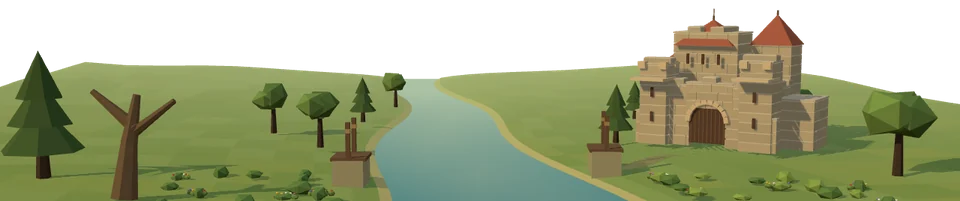
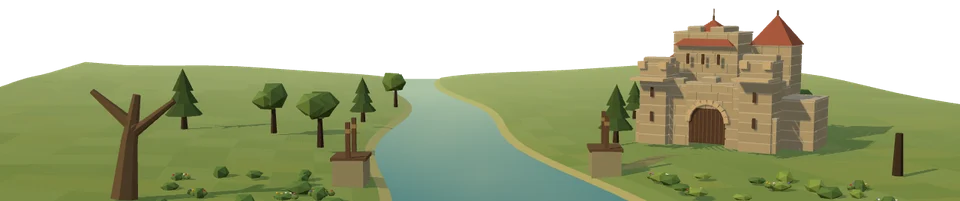
Bring a natural breeze to Modes of Mettle

diff --git a/client/menu-commands.css b/client/menu-commands.css
@@ -108,6 +108,7 @@
   box-shadow: inset 0 1px #fcdfa699, inset 0 -2px #273a2c80;
 }
 .mettle-view {
+  --gust: 28s -3s linear infinite;
   background: radial-gradient(ellipse at 26% 18%, #fff1c6b0 0, transparent 46%),
     linear-gradient(#83b9cf, #cadfe0 32%, #ffe9b7 59%, #d4d8aa);
   transition: transform .72s cubic-bezier(.22,.68,.22,1);
@@ -126,36 +127,62 @@
 .mettle-valley { background-image: url('./assets/menu-commands/valley.webp'); }
 .mettle-water {
   background-image: url('./assets/menu-commands/river-light.webp');
-  animation: mettle-water 4.4s -1s ease-in-out infinite alternate;
+  opacity: .53;
+}
+.mettle-current {
+  clip-path: polygon(39.8% 77%, 54.2% 77%, 58.4% 87%, 64.7% 100%, 41.5% 100%);
+}
+.mettle-current::before,
+.mettle-current::after {
+  content: "";
+  position: absolute;
+  inset: 72% 30% -8% 35%;
+  background: url('./assets/menu-commands/river-current.webp') center / 100% 100% no-repeat;
+  animation: mettle-flow 3.6s -.7s linear infinite;
+  animation-play-state: var(--art-motion, paused);
+}
+.mettle-current::after { animation-delay: -2.5s; }
+.mettle-view .mettle-wind {
+  inset: 33% auto auto -31%;
+  width: 34%;
+  height: 37%;
+  background-image: url('./assets/menu-commands/breeze.webp');
+  opacity: 0;
+  animation: mettle-wind var(--gust);
+  animation-play-state: var(--art-motion, paused);
 }
 .mettle-bridge {
   background-image: url('./assets/menu-commands/bridge.webp');
   transform-origin: 50% 62%;
   animation: mettle-bridge 6.4s -2.1s ease-in-out infinite alternate,
-    mettle-bridge-gust 28s -3s ease-in-out infinite;
+    mettle-bridge-gust var(--gust);
 }
 .mettle-canopies {
   background-image: url('./assets/menu-commands/canopies.webp');
   transform-origin: 14% 55%;
   animation: mettle-canopies 5.9s -1.4s ease-in-out infinite alternate,
-    mettle-canopy-gust 28s -3s ease-in-out infinite;
+    mettle-canopy-gust var(--gust);
+}
+.mettle-bank-canopy {
+  background-image: url('./assets/menu-commands/bank-canopy.webp');
+  transform-origin: 93.7% 63.8%;
+  animation: mettle-bank-canopy 4.7s -.8s ease-in-out infinite alternate,
+    mettle-bank-gust var(--gust);
 }
 .mettle-flags {
   background-image: url('./assets/menu-commands/standards.webp');
   transform-origin: 77% 16%;
   animation: mettle-flags 2.6s -.37s ease-in-out infinite,
-    mettle-flag-gust 28s -3s ease-in-out infinite;
+    mettle-flag-gust var(--gust);
 }
 .mettle-birds {
   position: absolute;
-  inset: 9% auto auto -9%;
-  width: 9%;
-  height: 21%;
-  fill: none;
-  stroke: #33474a;
-  stroke-width: 2.45;
-  stroke-linecap: round;
-  animation: mettle-flight 23s -4s linear infinite;
+  inset: 2% auto auto -12%;
+  width: 12%;
+  height: 22%;
+  fill: #2e3d3a;
+  opacity: 0;
+  animation: mettle-flight 19s 4.6s linear infinite;
 }
 .mettle-birds path {
   transform-box: fill-box;
@@ -169,20 +196,32 @@
   from { transform: translateX(-5%); }
   to { transform: translateX(5%); }
 }
-@keyframes mettle-water {
-  0% { opacity: .24; transform: translateX(-.48%); }
-  43% { opacity: .87; }
-  69% { opacity: .50; }
-  100% { opacity: .72; transform: translateX(.44%); }
+/* Highlights follow the bend from the bridge toward the viewer. */
+@keyframes mettle-flow {
+  0% { opacity: 0; transform: translate(-9%, -31%) scale(.9); }
+  28% { opacity: .78; }
+  71% { opacity: .66; }
+  100% { opacity: 0; transform: translate(12%, 28%) scale(1.08); }
+}
+@keyframes mettle-wind {
+  0%, 19% { opacity: 0; transform: translate(0, 0); }
+  25% { opacity: .65; transform: translate(81%, 3%); }
+  33% { opacity: .66; transform: translate(166%, 0); }
+  40% { opacity: .34; transform: translate(246%, -21%); }
+  48%, 100% { opacity: 0; transform: translate(338%, -39%); }
 }
 @keyframes mettle-bridge {
   from { transform: scaleY(.93) skewX(-.9deg); }
   to { transform: scaleY(1.083) skewX(.84deg); }
 }
 @keyframes mettle-canopies {
-  from { transform: rotate(-.95deg) skewX(-1.05deg); }
-  70% { transform: rotate(.88deg) skewX(.85deg); }
-  to { transform: rotate(.54deg) skewX(.55deg); }
+  from { transform: rotate(-1.34deg) skewX(-1.24deg); }
+  70% { transform: rotate(1.22deg) skewX(1.22deg); }
+  to { transform: rotate(.74deg) skewX(.65deg); }
+}
+@keyframes mettle-bank-canopy {
+  from { transform: skewX(-1.3deg); }
+  to { transform: skewX(2.5deg); }
 }
 @keyframes mettle-flags {
   0%, 100% { transform: scaleX(.97) skewY(-1.4deg); }
@@ -194,15 +233,23 @@
    onset and decay on top of its ordinary movement. */
 @keyframes mettle-canopy-gust {
   0%, 26%, 49%, 100% { rotate: 0deg; }
-  33% { rotate: 2.1deg; }
-  39% { rotate: .68deg; }
-  43% { rotate: 1.03deg; }
+  30% { rotate: 1.3deg; animation-timing-function: ease-in-out; }
+  33% { rotate: 2.65deg; animation-timing-function: ease-out; }
+  36% { rotate: 1.48deg; }
+  39% { rotate: 2.13deg; }
+  43% { rotate: .56deg; }
 }
 @keyframes mettle-bridge-gust {
   0%, 30%, 52%, 100% { scale: 1; }
   37% { scale: 1 1.072; }
   43% { scale: 1 .982; }
   47% { scale: 1 1.023; }
+}
+@keyframes mettle-bank-gust {
+  0%, 34%, 55%, 100% { rotate: 0deg; }
+  41% { rotate: 3.1deg; }
+  46% { rotate: -1.15deg; }
+  50% { rotate: .74deg; }
 }
 @keyframes mettle-flag-gust {
   0%, 33%, 51%, 100% { rotate: 0deg; }
@@ -212,10 +259,10 @@
 }
 @keyframes mettle-flight {
   0% { opacity: 0; transform: translate(0, 28%); }
-  5% { opacity: .78; transform: translate(130%, 5%); }
-  15% { opacity: .82; transform: translate(495%, -8%); }
-  24% { opacity: .7; transform: translate(805%, -30%); }
-  30%, 100% { opacity: 0; transform: translate(1110%, -52%); }
+  5% { opacity: .86; transform: translate(149%, -4%); }
+  15% { opacity: .88; transform: translate(459%, -8%); }
+  24% { opacity: .8; transform: translate(728%, -18%); }
+  30%, 100% { opacity: 0; transform: translate(978%, -35%); }
 }
 @keyframes mettle-wings {
   0%, 100% { transform: scaleY(.85); }
@@ -233,15 +280,21 @@
 /* Balanced keeps the elements most visible on a small screen. */
 #menu[data-art-quality="medium"] .mettle-birds path { animation: none; }
 #menu:where([data-art-quality="medium"]) .mettle-bridge { animation-name: mettle-bridge; }
-#menu:where([data-art-quality="medium"]) .mettle-flags { animation-name: mettle-flags; }
-#menu[data-art-quality="low"] .command-art :is(i, svg, path) { animation: none; }
+#menu:where([data-art-quality="medium"]) .mettle-bank-canopy { animation-name: mettle-bank-canopy; }
+#menu[data-art-quality="low"] .command-art :is(i, svg, path),
+#menu[data-art-quality="low"] .mettle-current::before,
+#menu[data-art-quality="low"] .mettle-current::after { animation: none; }
+#menu[data-art-quality="low"] .mettle-current { display: none; }
 #menu[data-art-quality="low"] .mettle-birds { opacity: 0; }
 @container app (max-height: 500px) {
   #menu .thematic-command { min-height: 48px; }
 }
 @media (prefers-reduced-motion: reduce) {
   #menu .command-art, #menu .thematic-command { transition: none; }
-  #menu .command-art :is(i, svg, path) { animation: none; }
+  #menu .command-art :is(i, svg, path),
+  #menu .mettle-current::before,
+  #menu .mettle-current::after { animation: none; }
+  #menu .mettle-current { display: none; }
   #menu .mettle-command:hover .mettle-view { transform: none; }
   #menu .mettle-birds { opacity: 0; }
   #menu .siege-command:active .siege-face { transform: none; }

diff --git a/client/index.html b/client/index.html
@@ -84,11 +84,16 @@
             <i class="mettle-ridges"></i>
             <i class="mettle-valley"></i>
             <i class="mettle-water"></i>
+            <i class="mettle-current"></i>
             <i class="mettle-bridge"></i>
             <i class="mettle-canopies"></i>
+            <i class="mettle-bank-canopy"></i>
             <i class="mettle-flags"></i>
-            <svg class="mettle-birds" viewBox="0 0 50 22">
-              <path d="M1 10q5-4 9 0 4-5 10-3"/><path d="M26 17q6-4 10 0 5-5 12-3"/>
+            <i class="mettle-wind"></i>
+            <svg class="mettle-birds" viewBox="0 0 85 34">
+              <path d="M1 12q8-7 16-2Q23 4 33 5l-6 3-5 5 1 3-5-2-4 2v-3q-6-3-13-1Z"/>
+              <path d="M31 24q7-7 14-3 5-6 13-4l-6 3-4 4 1 2-4-1-4 2v-3q-5-2-10 0Z"/>
+              <path d="M56 10q6-6 13-3Q74 2 83 3l-6 3-4 4 1 2-5-1-3 2v-3q-4-3-10 0Z"/>
             </svg>
           </span>
           <span>MODES OF METTLE</span><small>Choose your battlefield</small>
